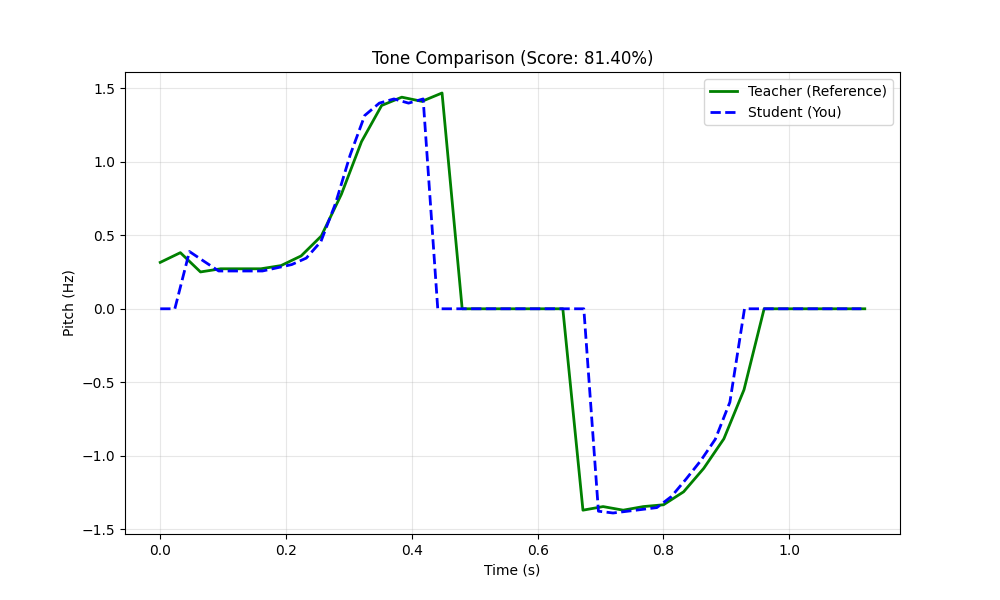
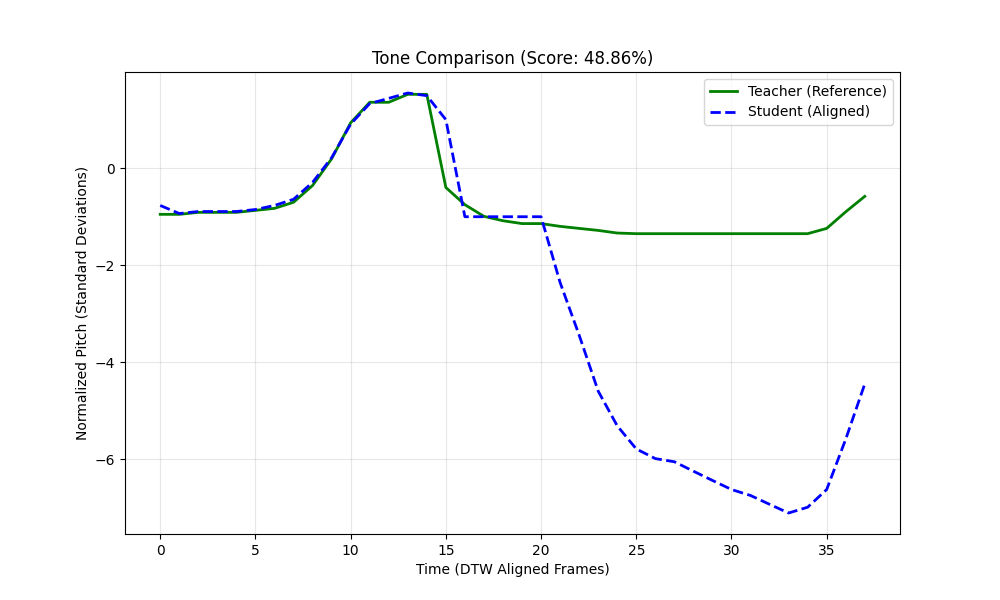
Wire in energy-based segmentation; self-score test passes

diff --git a/app.py b/app.py
@@ -1,3 +1,7 @@
+from dsp.segmentation import split_into_n
+from pypinyin import lazy_pinyin
+from dsp.segmentation import split_into_n
+from pypinyin import lazy_pinyin
 import streamlit as st
 import os
 import librosa              # <-- ADD THIS LINE
@@ -38,15 +42,6 @@ with st.sidebar:
     selected_sample = st.selectbox("Select Test Sample", options=sample_files) if sample_files else None
 
 
-# QUICK MVP FIX: Trim dead air before processing
-y, sr = librosa.load("student_attempt.wav", sr=None)
-y_trimmed, _ = librosa.effects.trim(y, top_db=30) # Strips silence
-sf.write("student_attempt_clean.wav", y_trimmed, sr)
-
-# Now feed the CLEAN file to your extractors
-s_times, s_pitch = extract_pitch_contour("student_attempt_clean.wav")
-s_transcription = asr.transcribe("student_attempt_clean.wav")
-s_intervals = asr.extract_syllable_intervals(s_transcription)
 
 st.write("### 1. Teacher Reference")
 practice_text = st.text_input("Enter Mandarin text to practice:", value="你好")
@@ -92,12 +87,12 @@ if audio_value is not None:
                 # Teacher Data
                 t_times, t_pitch = extract_pitch_contour("teacher_ref.wav")
                 t_transcription = asr.transcribe("teacher_ref.wav")
-                t_intervals = asr.extract_syllable_intervals(t_transcription)
+                t_intervals = split_into_n("teacher_ref.wav", len(lazy_pinyin(practice_text)))
                 
                 # Student Data (Now using the clean, trimmed WAV!)
                 s_times, s_pitch = extract_pitch_contour("student_attempt.wav")
                 s_transcription = asr.transcribe("student_attempt.wav")
-                s_intervals = asr.extract_syllable_intervals(s_transcription)
+                s_intervals = split_into_n("student_attempt.wav", len(lazy_pinyin(practice_text)))
                 
                 # Scoring Engine
                 final_score, breakdown, viz_u, viz_t = grade_lesson(

diff --git a/dsp/segmentation.py b/dsp/segmentation.py
@@ -1,0 +1,31 @@
+import numpy as np
+import librosa
+from scipy.signal import find_peaks
+
+
+def split_into_n(path, n, top_db=30, hop=256):
+    """Split a recording into exactly n syllable intervals (start, end) in seconds."""
+    y, sr = librosa.load(path, sr=None)
+    spans = librosa.effects.split(y, top_db=top_db)
+    if len(spans) == 0 or n < 1:
+        return []
+    start, end = spans[0][0], spans[-1][1]
+    if n == 1:
+        return [(start / sr, end / sr)]
+
+    rms = librosa.feature.rms(y=y, hop_length=hop)[0]
+    rms = np.convolve(rms, np.ones(5) / 5, mode="same")  # smooth
+    f0, f1 = start // hop, end // hop
+    seg = rms[f0:f1]
+
+    # deepest valleys inside the voiced span, at least ~80 ms apart
+    min_gap = max(1, int(0.08 * sr / hop))
+    valleys, props = find_peaks(-seg, distance=min_gap, prominence=0)
+    if len(valleys) >= n - 1:
+        best = valleys[np.argsort(props["prominences"])[::-1][: n - 1]]
+        cuts = sorted(int(f0 + v) for v in best)
+        bounds = [start] + [c * hop for c in cuts] + [end]
+    else:
+        bounds = list(np.linspace(start, end, n + 1))  # even split fallback
+
+    return [(bounds[i] / sr, bounds[i + 1] / sr) for i in range(n)]

diff --git a/main.py b/main.py
@@ -1,3 +1,7 @@
+from dsp.segmentation import split_into_n
+from pypinyin import lazy_pinyin
+from dsp.segmentation import split_into_n
+from pypinyin import lazy_pinyin
 import numpy as np
 import argparse
 import sys
@@ -42,7 +46,7 @@ def run_lesson(word_to_practice, error_mode=None, tts_engine=None):
     
     # New ASR-based intervals for teacher
     t_transcription = asr.transcribe(teacher_file)
-    t_intervals = asr.extract_syllable_intervals(t_transcription)
+    t_intervals = split_into_n(teacher_file, len(lazy_pinyin(word_to_practice)))
     
     # 2. Get Student Input
     student_file = "student_attempt.wav"
@@ -63,7 +67,7 @@ def run_lesson(word_to_practice, error_mode=None, tts_engine=None):
     
     # New ASR-based intervals for student
     s_transcription = asr.transcribe(student_file)
-    s_intervals = asr.extract_syllable_intervals(s_transcription)
+    s_intervals = split_into_n(student_file, len(lazy_pinyin(word_to_practice)))
     
     # 4. Grading (The Production Logic)
     final_score, breakdown, viz_u, viz_t = grade_lesson(

diff --git a/wrappers.py b/wrappers.py
@@ -56,3 +56,20 @@ class ASRWrapper:
             except Exception as e2:
                 print(f"❌ Total Whisper Failure: {e2}")
                 return {"text": "", "segments": []}
+    def extract_syllable_intervals(self, transcription):
+        """Return a list of (start, end) seconds, one per Chinese character."""
+        intervals = []
+        for seg in transcription.get("segments", []):
+            words = seg.get("words")
+            if words:
+                for w in words:
+                    chars = [c for c in w.get("word", "") if "\u4e00" <= c <= "\u9fff"]
+                    if not chars:
+                        continue
+                    step = (w["end"] - w["start"]) / len(chars)
+                    for i in range(len(chars)):
+                        intervals.append((w["start"] + i * step, w["start"] + (i + 1) * step))
+            else:
+                # Safe-mode fallback segment: no word timing, so use the whole span
+                intervals.append((seg["start"], seg["end"]))
+        return intervals

diff --git a/dsp/scoring.py b/dsp/scoring.py
@@ -58,7 +58,7 @@ def calculate_segment_score(u_segment, t_segment):
     
     # 6. Fairer Scoring Math
     # Relaxed the distance threshold slightly (1.0 instead of 0.8)
-    dist_score = max(0, 100 * (1 - (avg_dist / 1.0)))
+    dist_score = max(0, 100 * (1 - (avg_dist / 2.0)))
     
     # Softened shape penalty: Maps correlation from [-1, 1] to [0.1, 1.0]
     # This prevents an instant 0% just because you dipped slightly instead of rising
@@ -93,11 +93,11 @@ def grade_lesson(user_pitch, target_pitch, u_intervals, t_intervals, user_times,
         except:
             corr = 0.5
         avg_dist = dist / len(path)
-        dist_score = max(0, 100 * (1 - (avg_dist / 1.0)))
+        dist_score = max(0, 100 * (1 - (avg_dist / 2.0)))
         shape_penalty = (corr + 1) / 2 if corr > -0.6 else 0.1
         global_score = dist_score * shape_penalty
 
-        return global_score * 0.5, [], u_aligned, t_aligned 
+        return global_score, [], u_aligned, t_aligned 
     
     syllable_scores = []
     full_u_aligned = []
